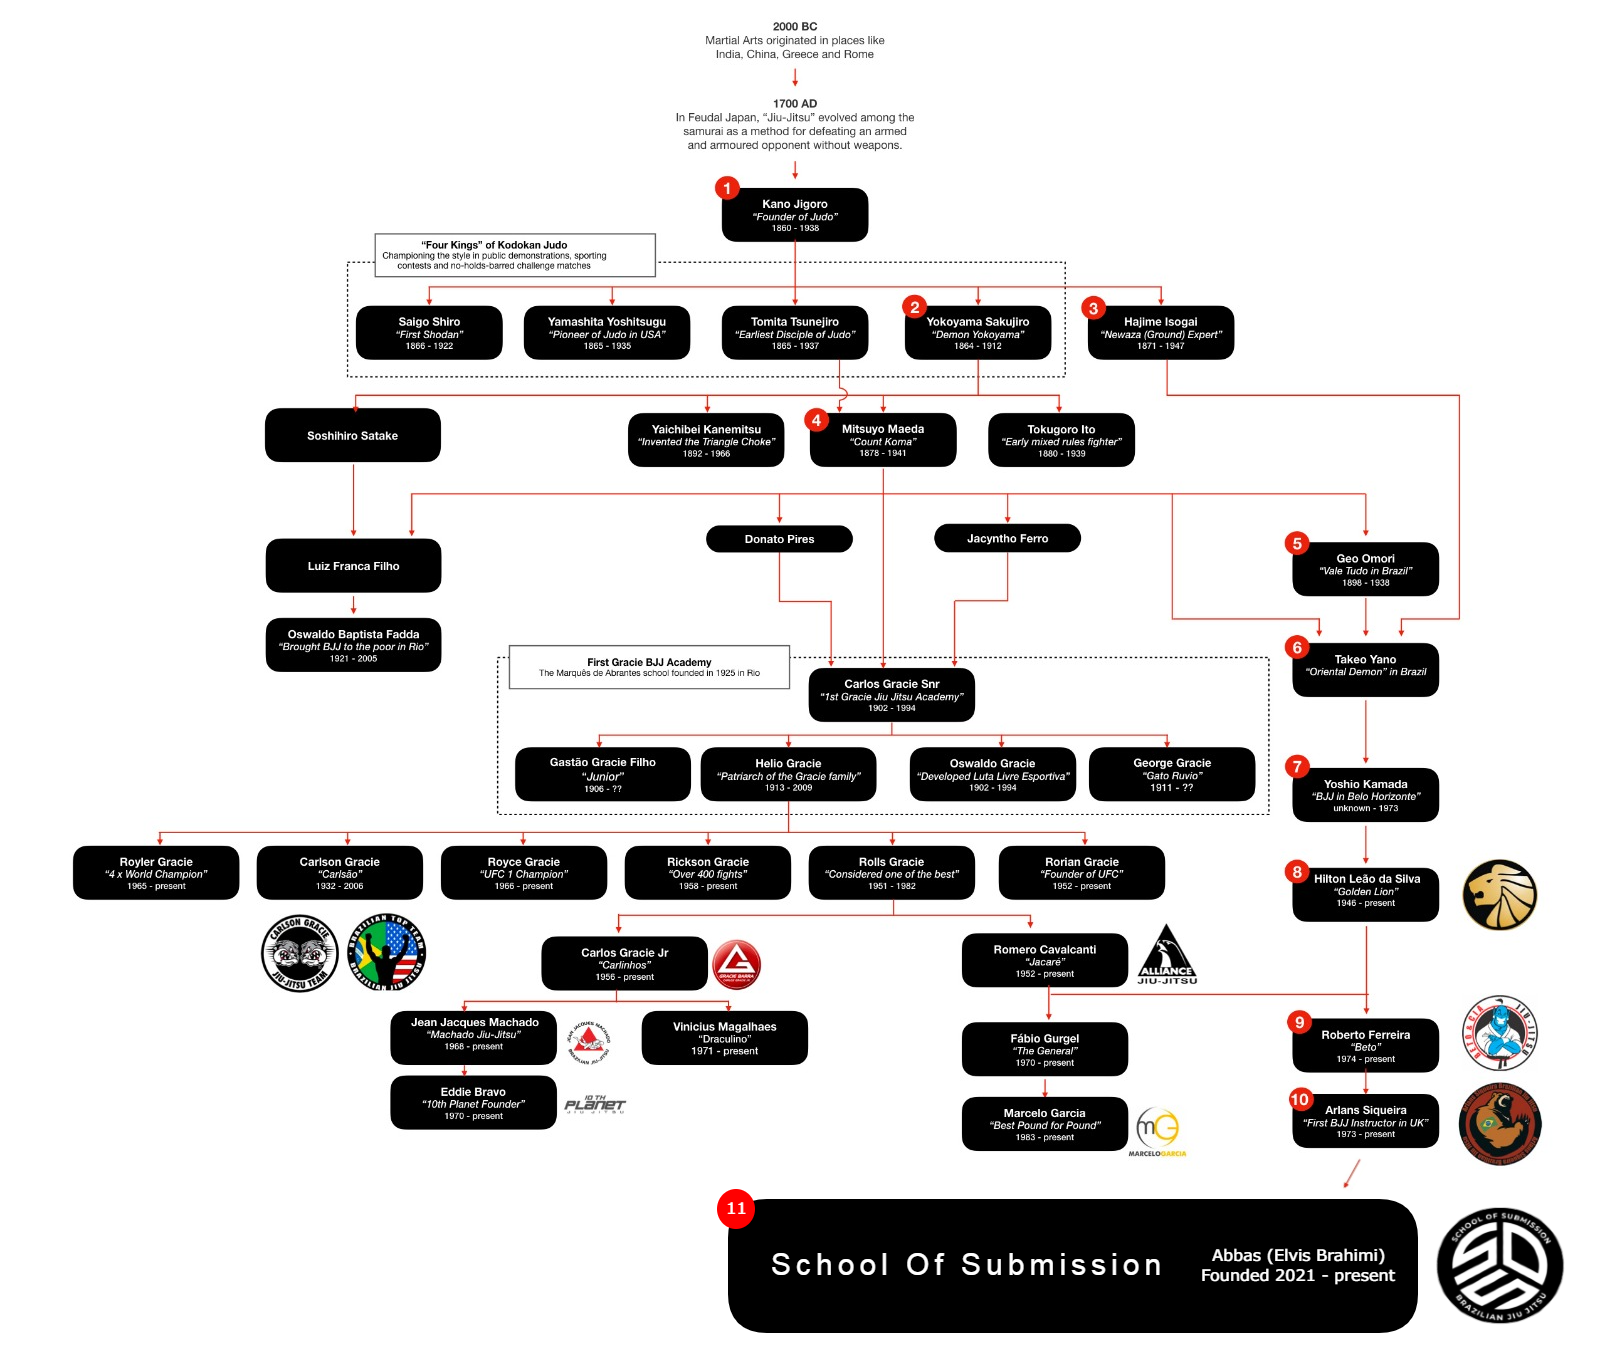
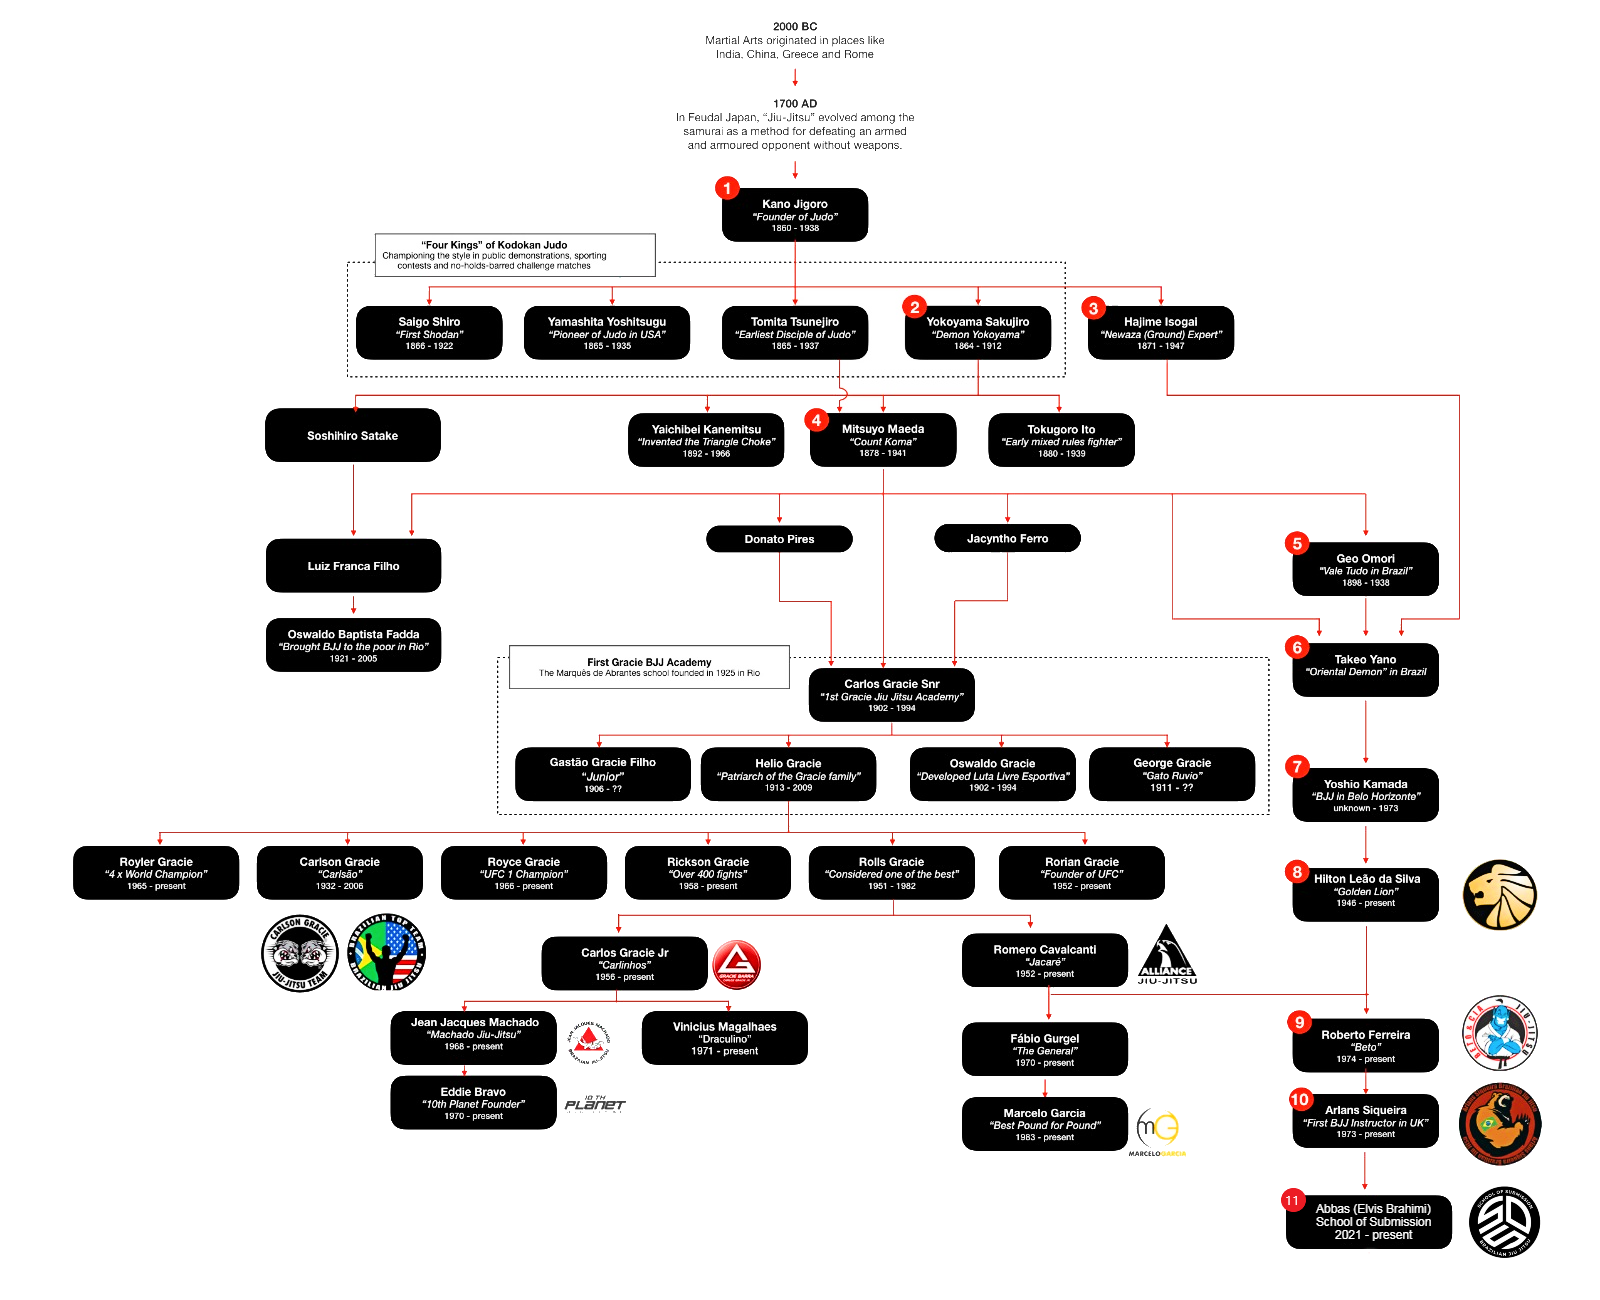
lineage added

Changed region(s): [[0.0312, 0.0, 1.0, 0.9846], [0.7188, 0.3692, 0.75, 0.4]]

diff --git a/index.html b/index.html
@@ -178,6 +178,10 @@
         </div>
       </div>
 
+      <div class="lineage">
+        <img src="images/lineage.png">
+      </div>
+
       <div class="container">
         <div class="owl-carousel bjj-carousel">
           <div><img src="images/gym1.jpg"></div>

diff --git a/css/style.css b/css/style.css
@@ -222,6 +222,15 @@ html {
     opacity: 0.8;
 }
 
+.lineage {
+    text-align: center;
+    padding: 50px 50px 0px 50px;
+}
+
+.lineage>img {
+    width: 100%;
+}
+
 #mobile-demo>li>a {
     cursor: pointer;
 }
